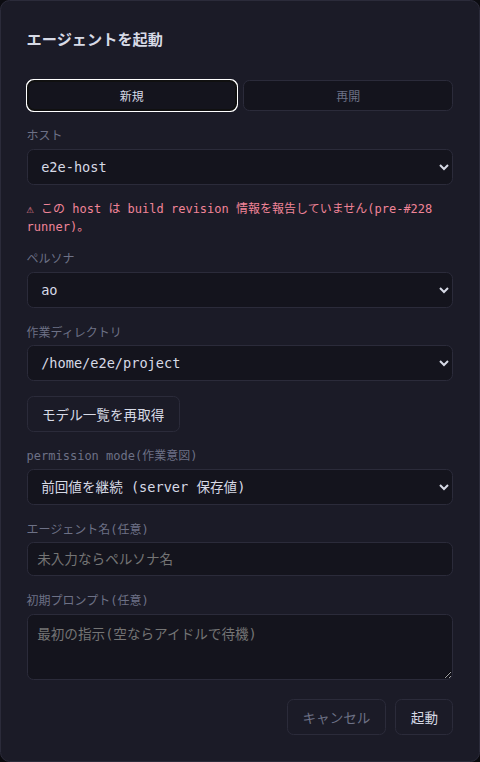
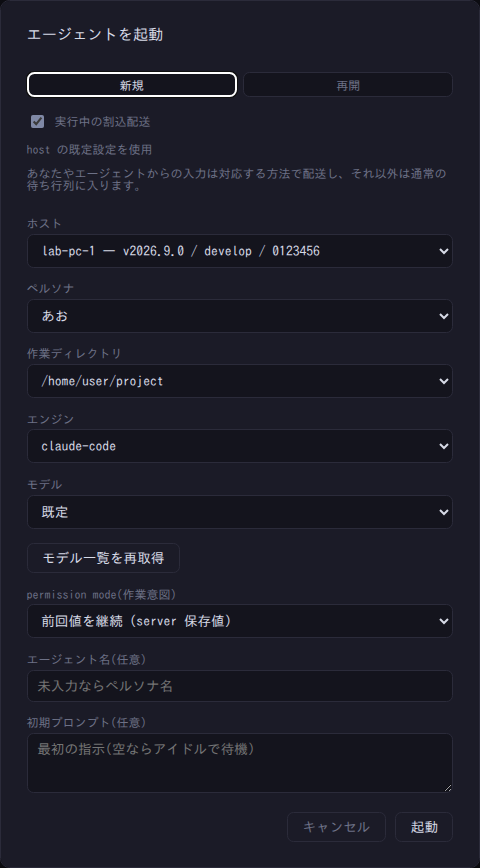
docs(readme): retake the launch dialog and settings drawer screenshots
launch-dialog.png still showed the host build-revision warning that the
launch dialog no longer has (removed by 2bb9a9e8), and settings-drawer.png
showed an older drawer. Both are rendered again from the production
LaunchDialog and SettingsDrawer components in headless Chromium, with the
props the real App passes (deliveryPolicyAvailable, ingestWarnings, a host
that reports its engine catalog). The images show the Japanese interface
with a generic host name, a generic working directory and bundled personas
only; the PNGs carry no metadata chunks.

The alt text now names the engine and model fields of the launch dialog and
the language, card display and grid order settings of the drawer.

diff --git a/README.md b/README.md
@@ -43,11 +43,10 @@ Agents are launched and tuned from the same screen:
 
 <p>
   <img src="docs/images/launch-dialog.png" height="360"
-       alt="Launch dialog: host, persona, working directory, permission mode
-            and an optional initial prompt">
+       alt="Launch dialog: host, persona, working directory, engine, model,
+            permission mode and an optional initial prompt">
   <img src="docs/images/settings-drawer.png" height="360"
-       alt="Settings drawer: notification sound, volume and card display
-            options">
+       alt="Settings drawer: language, card display options and grid order">
 </p>
 
 The dashboard interface is available in Japanese and English. It follows the
